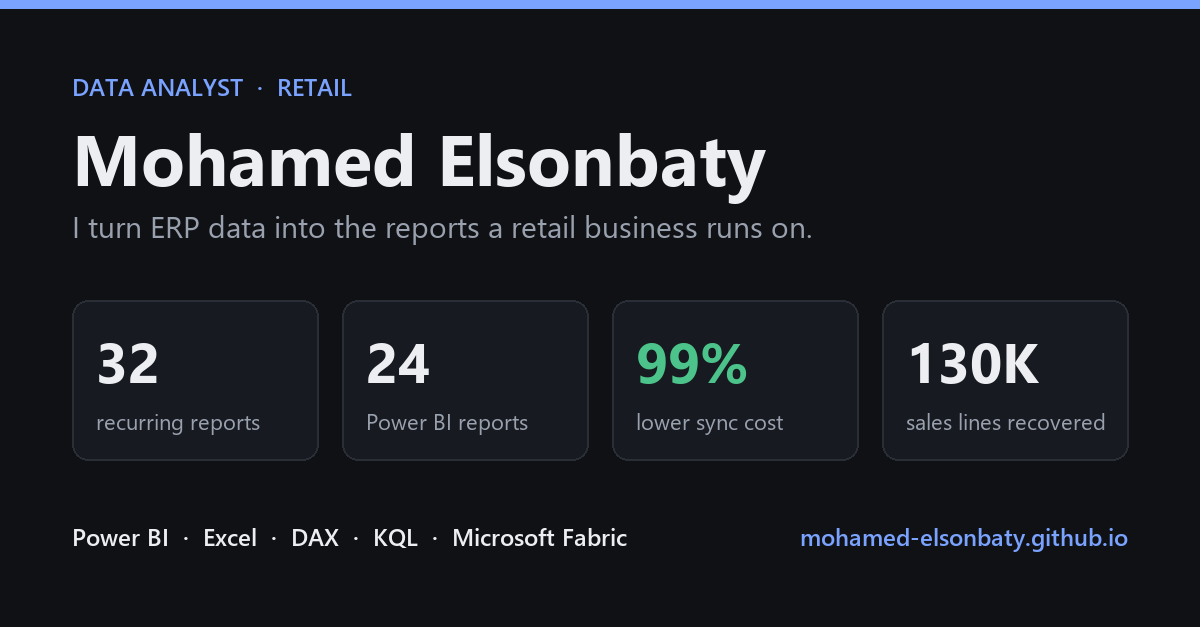
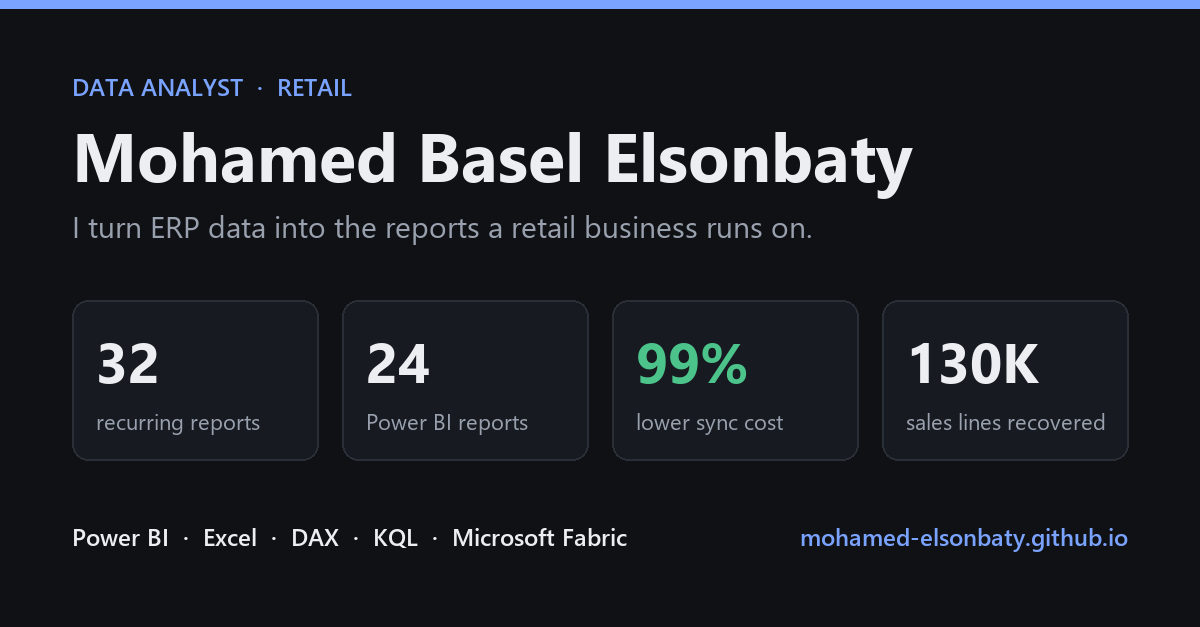
Add social preview image

Changed region(s): [[0.0617, 0.2121, 0.7708, 0.3333]]

diff --git a/index.html b/index.html
@@ -3,11 +3,11 @@
 <head>
 <meta charset="utf-8">
 <meta name="viewport" content="width=device-width, initial-scale=1">
-<title>Mohamed Elsonbaty | Data Analyst</title>
+<title>Mohamed Basel Elsonbaty | Data Analyst</title>
 <meta name="description" content="Data Analyst for a multi-branch retail chain. Power BI, Excel, DAX, KQL and Microsoft Fabric. Case studies in KPI design, cost optimisation, reporting and data quality.">
 <meta property="og:type" content="website">
 <meta property="og:url" content="https://mohamed-elsonbaty.github.io/">
-<meta property="og:title" content="Mohamed Elsonbaty | Data Analyst Portfolio">
+<meta property="og:title" content="Mohamed Basel Elsonbaty | Data Analyst Portfolio">
 <meta property="og:description" content="4 case studies from real retail work: KPI design, a 99% cut in data-sync cost, a 32-report cycle, and measuring online promotions.">
 <meta property="og:image" content="https://mohamed-elsonbaty.github.io/og.png">
 <meta property="og:image:width" content="1200">
@@ -121,7 +121,7 @@ footer h2 { margin-bottom: 12px; }
 
 <nav>
   <div class="wrap">
-    <a class="brand" href="#top">Mohamed Elsonbaty</a>
+    <a class="brand" href="#top">Mohamed Basel Elsonbaty</a>
     <ul>
       <li><a href="#work">Case studies</a></li>
       <li><a href="#skills">Skills</a></li>
